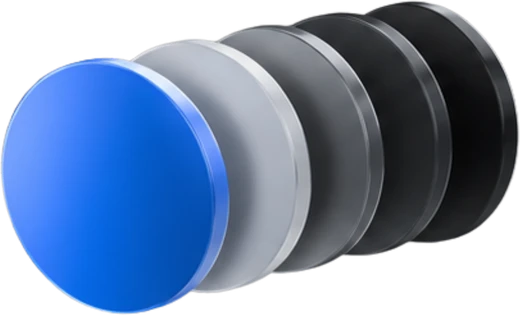
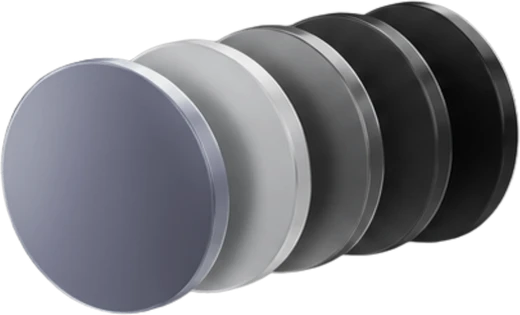
Grade the blue out of the web design art, and make the export a tool
All five assets carried a strong brand blue — the disc, the selection
handles, the chart accents, the cursor's edge. §4 deleted six per-service
colour tints for contradicting a monochrome page, and art arriving with a
brand colour is the same contradiction wearing different clothes. One
card carrying colour while five do not is the worst of both, so it goes.

Not to zero: 0.15. The chrome knot keeps a faint cool glint in its
highlights and reads better for it, so the house look is not grey — it is
near-grey with a trace of cold in the speculars, and the web design props
now sit in that family rather than beside it.

The export becomes tools/art.js, because four more cards of art are
coming and the flattening has been ad hoc every time. It carries the two
things that were learned the hard way. Rasterise at density, not scale:
these SVGs wrap bitmaps and a low DPI throws away resolution the art
has. And TRIM, always — the renders sit in a big transparent frame, and
that margin is part of the box the layout positions. It is why the knot
sat small in its plate, and an orbiting prop with a margin orbits at the
wrong radius.

Claude-Session: https://claude.ai/code/session_01BvoxmXyiaHcK4kD1Gb9Q8M

Changed region(s): [[0.0, 0.1714, 0.4615, 1.0]]

diff --git a/tools/art.js b/tools/art.js
@@ -1,0 +1,55 @@
+/* FLATTEN A CARD'S ART FOR §4.
+ *
+ *   node tools/art.js <in.svg> <out.webp> [width] [saturation]
+ *
+ * Every §4 object has arrived as an SVG that is not one: they are generative
+ * exports wrapping embedded base64 PNGs, several megabytes each. Used
+ * directly they are several megabytes each on the wire and a fresh document
+ * parse per <img> — and the fracture renders NINE <img> of the same source,
+ * so that is nine parses of a 4MB file. Flattened, the same art is tens of
+ * kilobytes and one decode.
+ *
+ * TRIMMED, ALWAYS. The renders sit in a big transparent frame with the object
+ * somewhere inside it. Left in, that margin is part of the box, and a box is
+ * what the layout positions: the knot sat small in its plate because two
+ * thirds of its box was empty, and an orbiting prop with a margin orbits at
+ * the wrong radius. After trimming, the box IS the object and every number in
+ * the layout means what it says.
+ *
+ * DESATURATED BY DEFAULT, which is a direction call and not a technical one.
+ * §4 deleted six per-service colour tints for contradicting a monochrome
+ * page; art that arrives carrying a brand blue is the same contradiction
+ * wearing different clothes. `0.15` rather than `0` on purpose — the chrome
+ * knot keeps a faint cool glint in its highlights and reads better for it, so
+ * the house look is not grey, it is near-grey with a trace of cold in the
+ * speculars. Pass 1 to ship the colour untouched.
+ */
+const sharp = require('sharp')
+const fs = require('fs')
+
+const IN = process.argv[2]
+const OUT = process.argv[3]
+const WIDTH = Number(process.argv[4] || 1200)
+const SAT = process.argv[5] === undefined ? 0.15 : Number(process.argv[5])
+if (!IN || !OUT) {
+  console.error('usage: node tools/art.js <in.svg> <out.webp> [width] [saturation]')
+  process.exit(1)
+}
+
+;(async () => {
+  /* density, not scale: an SVG wrapping a bitmap rasterises at whatever DPI it
+     is given, and too low a one throws away the resolution the art has */
+  const raw = await sharp(IN, { density: 220 }).png().toBuffer()
+  const trimmed = await sharp(raw).trim({ threshold: 5 }).toBuffer({ resolveWithObject: true })
+  let pipe = sharp(trimmed.data).resize({ width: WIDTH })
+  if (SAT !== 1) pipe = pipe.modulate({ saturation: SAT })
+  await pipe.webp({ quality: 90, alphaQuality: 95 }).toFile(OUT)
+
+  const m = await sharp(OUT).metadata()
+  const before = (fs.statSync(IN).size / 1024).toFixed(0)
+  const after = (fs.statSync(OUT).size / 1024).toFixed(0)
+  console.log(
+    `${OUT.split(/[\\/]/).pop().padEnd(14)} ${m.width}x${m.height}  aspect ${(m.width / m.height).toFixed(4)}  ` +
+    `sat ${SAT}  ${before}KB → ${after}KB`,
+  )
+})()

diff --git a/src/components/v4/Orbit.tsx b/src/components/v4/Orbit.tsx
@@ -92,7 +92,7 @@ export type OrbitArt = {
 }
 
 export const WEB_DESIGN: OrbitArt = {
-  main: { src: '/services/web-design/main.webp', aspect: 1200 / 876 },
+  main: { src: '/services/web-design/main.webp', aspect: 1200 / 877 },
   /* Angles picked so the still reads before anything moves: one prop in front
      and low, one leaving right, one behind the mockup, one arriving left.
      `lift` keeps all four off the ring's exact equator, which also stops any
